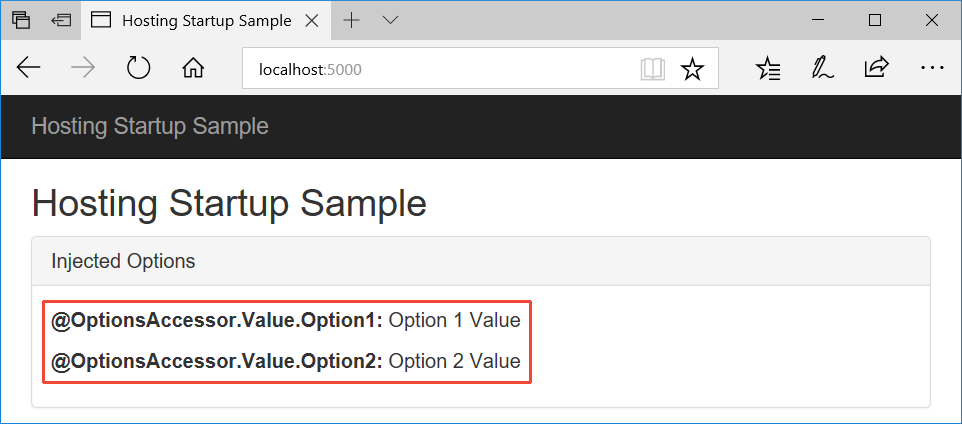
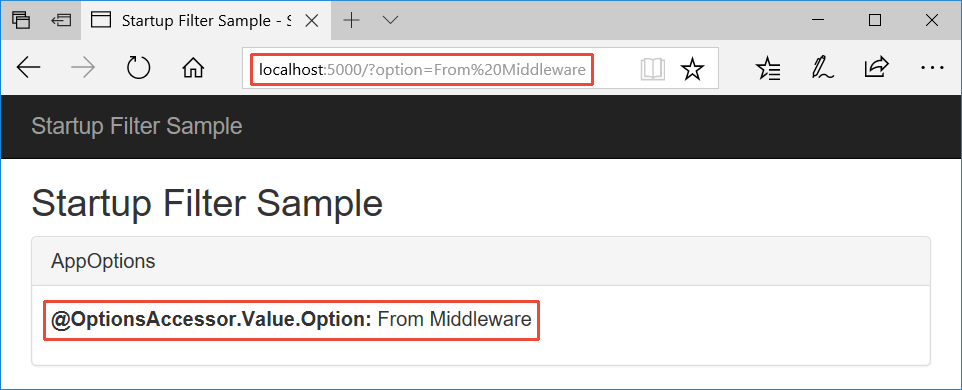
Updates

diff --git a/aspnetcore/fundamentals/startup/sample/RequestSetOptionsMiddleware.cs b/aspnetcore/fundamentals/startup/sample/RequestSetOptionsMiddleware.cs
@@ -3,17 +3,18 @@ using System.Net;
 using System.Threading.Tasks;
 using Microsoft.AspNetCore.Http;
 using Microsoft.Extensions.Options;
+using StartupFilterSample.Models;
 
-namespace HostingStartupSample
+namespace StartupFilterSample
 {
     #region snippet1
     public class RequestSetOptionsMiddleware
     {
         private readonly RequestDelegate _next;
-        private IOptions<InjectedOptions> _injectedOptions;
+        private IOptions<AppOptions> _injectedOptions;
 
         public RequestSetOptionsMiddleware(
-            RequestDelegate next, IOptions<InjectedOptions> injectedOptions)
+            RequestDelegate next, IOptions<AppOptions> injectedOptions)
         {
             _next = next;
             _injectedOptions = injectedOptions;
@@ -23,11 +24,11 @@ namespace HostingStartupSample
         {
             Console.WriteLine("RequestSetOptionsMiddleware.Invoke");
 
-            var option1 = httpContext.Request.Query["option1"];
+            var option = httpContext.Request.Query["option"];
 
-            if (!string.IsNullOrWhiteSpace(option1))
+            if (!string.IsNullOrWhiteSpace(option))
             {
-                _injectedOptions.Value.Option1 = WebUtility.HtmlEncode(option1);
+                _injectedOptions.Value.Option = WebUtility.HtmlEncode(option);
             }
 
             await _next(httpContext);

diff --git a/aspnetcore/fundamentals/startup/sample/Startup.cs b/aspnetcore/fundamentals/startup/sample/Startup.cs
@@ -1,17 +1,14 @@
-using System;
 using Microsoft.AspNetCore.Builder;
 using Microsoft.AspNetCore.Hosting;
 using Microsoft.Extensions.DependencyInjection;
 
-namespace HostingStartupSample
+namespace StartupFilterSample
 {
     public class Startup
     {
         #region snippet1
         public void ConfigureServices(IServiceCollection services)
         {
-            Console.WriteLine("Startup.ConfigureServices");
-
             services.AddTransient<IStartupFilter, RequestSetOptionsStartupFilter>();
             services.AddMvc();
         }
@@ -19,8 +16,6 @@ namespace HostingStartupSample
 
         public void Configure(IApplicationBuilder app, IHostingEnvironment env)
         {
-            Console.WriteLine("Startup.Configure");
-
             if (env.IsDevelopment())
             {
                 app.UseDeveloperExceptionPage();

diff --git a/aspnetcore/fundamentals/startup/sample/Program.cs b/aspnetcore/fundamentals/startup/sample/Program.cs
@@ -1,7 +1,7 @@
 using Microsoft.AspNetCore;
 using Microsoft.AspNetCore.Hosting;
 
-namespace HostingStartupSample
+namespace StartupFilterSample
 {
     public class Program
     {
@@ -12,11 +12,6 @@ namespace HostingStartupSample
 
         public static IWebHost BuildWebHost(string[] args) =>
             WebHost.CreateDefaultBuilder(args)
-                // To scan the assembly for HostingStartupAttributes, the
-                // ApplicationName must be set. This can be done with
-                // UseSetting, Configure, or UseStartup.
-                // .UseSetting(WebHostDefaults.ApplicationKey, "HostingStartupSample")
-                // .Configure(_ => { })
                 .UseStartup<Startup>()
                 .Build();
     }

diff --git a/aspnetcore/fundamentals/startup/sample/RequestSetOptionsStartupFilter.cs b/aspnetcore/fundamentals/startup/sample/RequestSetOptionsStartupFilter.cs
@@ -2,7 +2,7 @@ using System;
 using Microsoft.AspNetCore.Builder;
 using Microsoft.AspNetCore.Hosting;
 
-namespace HostingStartupSample
+namespace StartupFilterSample
 {
     #region snippet1
     public class RequestSetOptionsStartupFilter : IStartupFilter

diff --git a/aspnetcore/fundamentals/startup/sample/Pages/Error.cshtml.cs b/aspnetcore/fundamentals/startup/sample/Pages/Error.cshtml.cs
@@ -1,7 +1,7 @@
 using System.Diagnostics;
 using Microsoft.AspNetCore.Mvc.RazorPages;
 
-namespace HostingStartupSample.Pages
+namespace StartupFilterSample.Pages
 {
     public class ErrorModel : PageModel
     {

diff --git a/aspnetcore/fundamentals/startup/sample/Pages/Index.cshtml.cs b/aspnetcore/fundamentals/startup/sample/Pages/Index.cshtml.cs
@@ -1,6 +1,6 @@
 using Microsoft.AspNetCore.Mvc.RazorPages;
 
-namespace HostingStartupSample.Pages
+namespace StartupFilterSample.Pages
 {
     public class IndexModel : PageModel
     {

diff --git a/aspnetcore/fundamentals/startup/sample/Models/AppOptions.cs b/aspnetcore/fundamentals/startup/sample/Models/AppOptions.cs
@@ -1,0 +1,7 @@
+namespace StartupFilterSample.Models
+{
+    public class AppOptions
+    {
+        public string Option { get; set; } = "Option Default Value";
+    }
+}

diff --git a/aspnetcore/fundamentals/startup.md b/aspnetcore/fundamentals/startup.md
@@ -1,5 +1,5 @@
 ---
-title: Application Startup in ASP.NET Core
+title: Application startup in ASP.NET Core
 author: ardalis
 description: Discover how the Startup class in ASP.NET Core configures services and the application's request pipeline. 
 keywords: ASP.NET Core,Startup,Configure method,ConfigureServices method
@@ -11,7 +11,7 @@ ms.technology: aspnet
 ms.prod: asp.net-core
 uid: fundamentals/startup
 ---
-# Application Startup in ASP.NET Core
+# Application startup in ASP.NET Core
 
 By [Steve Smith](https://ardalis.com), [Tom Dykstra](https://github.com/tdykstra), and [Luke Latham](https://github.com/guardrex)
 
@@ -19,75 +19,57 @@ The `Startup` class configures services and the application's request pipeline.
 
 ## The Startup class
 
-ASP.NET Core apps require a `Startup` class, which is named `Startup` by convention. You specify the startup class name in the `Main` program's [WebHostBuilderExtensions](https://docs.microsoft.com/aspnet/core/api/microsoft.aspnetcore.hosting.webhostbuilderextensions) [`UseStartup<TStartup>`](https://docs.microsoft.com/aspnet/core/api/microsoft.aspnetcore.hosting.webhostbuilderextensions#Microsoft_AspNetCore_Hosting_WebHostBuilderExtensions_UseStartup__1_Microsoft_AspNetCore_Hosting_IWebHostBuilder_) method. See [Hosting](xref:fundamentals/hosting) to learn more about `WebHostBuilder`, which runs before `Startup`.
+ASP.NET Core apps require a `Startup` class, which is named `Startup` by convention. Specify the startup class name in the `Main` program's [WebHostBuilderExtensions](https://docs.microsoft.com/aspnet/core/api/microsoft.aspnetcore.hosting.webhostbuilderextensions) [`UseStartup<TStartup>`](https://docs.microsoft.com/aspnet/core/api/microsoft.aspnetcore.hosting.webhostbuilderextensions#Microsoft_AspNetCore_Hosting_WebHostBuilderExtensions_UseStartup__1_Microsoft_AspNetCore_Hosting_IWebHostBuilder_) method. See [Hosting](xref:fundamentals/hosting) to learn more about `WebHostBuilder`, which runs before `Startup`.
 
-You can define separate `Startup` classes for different environments, and the appropriate one will be selected at runtime. If you specify `startupAssembly` in the [WebHost configuration](https://docs.microsoft.com/aspnet/core/fundamentals/hosting?tabs=aspnetcore2x#configuring-a-host) or options, hosting will load that startup assembly and search for a `Startup` or `Startup[Environment]` type. The class whose name suffix matches the current environment will be prioritized, so if the app is run in the *Development* environment, and includes both a `Startup` and a `StartupDevelopment` class, the `StartupDevelopment` class will be used. See [FindStartupType](https://github.com/aspnet/Hosting/blob/rel/1.1.0/src/Microsoft.AspNetCore.Hosting/Internal/StartupLoader.cs) in `StartupLoader` and [Working with multiple environments](environments.md#startup-conventions).
+The app can define separate `Startup` classes for different environments, and the appropriate startup class is selected at runtime. If `startupAssembly` is specified in the [WebHost configuration](https://docs.microsoft.com/aspnet/core/fundamentals/hosting?tabs=aspnetcore2x#configuring-a-host) or options, hosting loads the specified startup assembly and searches for a `Startup` or `Startup[Environment]` type. The class whose name suffix matches the current environment is prioritized. If the app is run in the *Development* environment and includes both a `Startup` and a `StartupDevelopment` class, the `StartupDevelopment` class is used. See [FindStartupType](https://github.com/aspnet/Hosting/blob/rel/1.1.0/src/Microsoft.AspNetCore.Hosting/Internal/StartupLoader.cs) in `StartupLoader` and [Working with multiple environments](xref:fundamentals/environments#startup-conventions).
 
-Alternatively, you can define a fixed `Startup` class that will be used regardless of the environment by calling `UseStartup<TStartup>`. This is the recommended approach.
+Alternatively, the app can define a fixed `Startup` class that's used regardless of the environment by calling `UseStartup<TStartup>`. This is the recommended approach.
 
 The `Startup` class constructor can accept dependencies that are provided through [dependency injection](xref:fundamentals/dependency-injection). A common approach is to use `IHostingEnvironment` to set up [configuration](xref:fundamentals/configuration) sources.
 
-The `Startup` class must include a `Configure` method and can optionally include a `ConfigureServices` method, both of which are called when the application starts. The class can also include [environment-specific versions of these methods](xref:fundamentals/environments#startup-conventions). `ConfigureServices`, if present, is called before `Configure`.
+The `Startup` class must include a `Configure` method and can optionally include a `ConfigureServices` method. `Configure` and `ConfigureServices` are called when the app starts. The class can also include [environment-specific versions of these methods](xref:fundamentals/environments#startup-conventions). `ConfigureServices`, if present, is called before `Configure`.
 
 Learn about [handling exceptions during application startup](xref:fundamentals/error-handling#startup-exception-handling).
 
 ## The ConfigureServices method
 
-The [ConfigureServices](https://docs.microsoft.com/aspnet/core/api/microsoft.aspnetcore.hosting.startupbase#Microsoft_AspNetCore_Hosting_StartupBase_ConfigureServices_Microsoft_Extensions_DependencyInjection_IServiceCollection_) method is optional; but if used, it's called before the `Configure` method by the web host. The web host may configure some services before ``Startup`` methods are called (see [hosting](xref:fundamentals/hosting)). By convention, [Configuration options](xref:fundamentals/configuration) are set in this method.
+The [ConfigureServices](https://docs.microsoft.com/aspnet/core/api/microsoft.aspnetcore.hosting.startupbase#Microsoft_AspNetCore_Hosting_StartupBase_ConfigureServices_Microsoft_Extensions_DependencyInjection_IServiceCollection_) method is optional. If `ConfigureServices` is used, it's called before the `Configure` method by the web host. The web host may configure some services before `Startup` methods are called (see [hosting](xref:fundamentals/hosting)). By convention, [Configuration options](xref:fundamentals/configuration) are set in this method.
 
-For features that require substantial setup there are `Add[Service]` extension methods on [IServiceCollection](https://docs.microsoft.com/aspnet/core/api/microsoft.extensions.dependencyinjection.iservicecollection). This example from the default web site template configures the app to use services for Entity Framework, Identity, and MVC:
+For features that require substantial setup, there are `Add[Service]` extension methods on [IServiceCollection](https://docs.microsoft.com/aspnet/core/api/microsoft.extensions.dependencyinjection.iservicecollection). The default website template configures the app to use services for Entity Framework, Identity, and MVC:
 
 [!code-csharp[Main](../common/samples/WebApplication1/Startup.cs?highlight=4,7,11&start=40&end=55)]
 
-Adding services to the services container makes them available within your application via [dependency injection](xref:fundamentals/dependency-injection).
+Adding services to the services container makes them available within the app via [dependency injection](xref:fundamentals/dependency-injection).
 
-## Services Available in Startup
+## Services available in Startup
 
-ASP.NET Core dependency injection provides services during an application's startup. You can request these services by including the appropriate interface as a parameter on your `Startup` class's constructor or its `Configure` method. The `ConfigureServices` method only takes an `IServiceCollection` parameter (but any registered service can be retrieved from this collection, so additional parameters are not necessary).
+ASP.NET Core dependency injection provides services during an app's startup. These services can be requested by including the appropriate interface as a parameter on the `Startup` class's constructor or its `Configure` method. The `ConfigureServices` method only takes an `IServiceCollection` parameter (but any registered service can be retrieved from this collection, so additional parameters are not necessary).
 
 Below are some of the services typically requested by `Startup` methods:
 
-* In the constructor:  `IHostingEnvironment`, `ILogger<Startup>`
-* In `ConfigureServices`:  `IServiceCollection`
-* In `Configure`:  `IApplicationBuilder`, `IHostingEnvironment`, `ILoggerFactory`
+* In the constructor: `IHostingEnvironment`, `ILogger<Startup>`
+* In `ConfigureServices`: `IServiceCollection`
+* In `Configure`: `IApplicationBuilder`, `IHostingEnvironment`, `ILoggerFactory`
 
-Any services added by the ``WebHostBuilder`` ``ConfigureServices`` method may be requested by the ``Startup`` class constructor or its ``Configure`` method. Use `WebHostBuilder` to provide any services you need during `Startup` methods.
+Any services added by the `WebHostBuilder` `ConfigureServices` method may be requested by the `Startup` class constructor or its `Configure` method. Use `WebHostBuilder` to provide any services needed by `Startup` methods.
 
 ## The Configure method
 
-The `Configure` method is used to specify how the ASP.NET application will respond to HTTP requests. The request pipeline is configured by adding [middleware](middleware.md) components to an `IApplicationBuilder` instance that is provided by dependency injection.
+The `Configure` method is used to specify how the app responds to HTTP requests. The request pipeline is configured by adding [middleware](xref:fundamentals/middleware) components to an `IApplicationBuilder` instance that is provided by dependency injection.
 
-In the following example from the default web site template, several extension methods are used to configure the pipeline with support for [BrowserLink](http://vswebessentials.com/features/browserlink), error pages, static files, ASP.NET MVC, and Identity.
+The default website template uses several extension methods to configure the pipeline with support for [BrowserLink](http://vswebessentials.com/features/browserlink), error pages, static files, ASP.NET MVC, and Identity:
 
 [!code-csharp[Main](../common/samples/WebApplication1/Startup.cs?highlight=8,9,10,14,17,19,21&start=58&end=84)]
 
-Each `Use` extension method adds a [middleware](xref:fundamentals/middleware) component to the request pipeline. For instance, the `UseMvc` extension method adds the [routing](routing.md) middleware to the request pipeline and configures [MVC](xref:mvc/overview) as the default handler.
+Each `Use` extension method adds a [middleware](xref:fundamentals/middleware) component to the request pipeline. For instance, the `UseMvc` extension method adds the [routing](xref:fundamentals/routing) middleware to the request pipeline and configures [MVC](xref:mvc/overview) as the default handler.
 
 For more information about how to use `IApplicationBuilder`, see [Middleware](xref:fundamentals/middleware).
 
-Additional services, like `IHostingEnvironment` and `ILoggerFactory` may also be specified in the method signature, in which case these services will be [injected](dependency-injection.md) if they are available.
-
-## Hosting startup light up feature
-
-An [IHostingStartup](/dotnet/api/microsoft.aspnetcore.hosting.ihostingstartup) implementation allows adding features to an app at startup outside of the app's `Startup` class. For example, tooling can use an `IHostingStartup` implementation to provide additional configuration providers or services to an app on startup.
-
-The [HostingStartupSample app](https://github.com/aspnet/Docs/tree/master/aspnetcore/fundamentals/startup/sample/) ([how to download](xref:tutorials/index#how-to-download-a-sample)) uses `IHostingStartup` to configure [options](xref:fundamentals/configuration/options) in the app's service container.
-
-The sample app's `StartupInjection` class implements `IHostingStartup`. The [Configure](/dotnet/api/microsoft.aspnetcore.hosting.ihostingstartup.configure) method uses an [IWebHostBuilder](/dotnet/api/microsoft.aspnetcore.hosting.iwebhostbuilder) to add an `InjectedOptions` class to the app's service container with assigned values. The [HostingStartupAttribute](/dotnet/api/microsoft.aspnetcore.hosting.hostingstartupattribute) identifies the `StartupInjection` class as an implementation of `IHostingStartup` for loading and execution when building the [IWebHost](/dotnet/api/microsoft.aspnetcore.hosting.iwebhost):
-
-[!code-csharp[Main](startup/sample/StartupInjection.cs?name=snippet1&highlight=1)]
-
-The sample app's Index page injects the options directly into the page for rendering:
-
-[!code-cshtml[Main](startup/sample/Pages/Index.cshtml?highlight=3-4,19-20,23-24)]
-
-When the app is run, the Index page displays the values:
-
-![Browser window showing the rendered Index page. The values of Option1 and Option2 are displayed as 'Option 1 Value' and 'Option 2 Value'.](startup/_static/index.png)
+Additional services, such as `IHostingEnvironment` and `ILoggerFactory`, may also be specified in the method signature. When specified, these services are [injected](xref:fundamentals/dependency-injection) if they're available.
 
 ## Startup filters
 
-Use [IStartupFilter](/dotnet/api/microsoft.aspnetcore.hosting.istartupfilter) to configure and control the order of middleware at the beginning or end of an app's [Configure](#the-configure-method) middleware pipeline.
+Use [IStartupFilter](/dotnet/api/microsoft.aspnetcore.hosting.istartupfilter) to configure middleware at the beginning or end of an app's [Configure](#the-configure-method) middleware pipeline.
 
 `IStartupFilter` implements a single method, [Configure](/dotnet/api/microsoft.aspnetcore.hosting.istartupfilter.configure), which receives and returns an `Action<IApplicationBuilder>`. An [IApplicationBuilder](/dotnet/api/microsoft.aspnetcore.builder.iapplicationbuilder) defines a class to configure an app's request pipeline. For more information, see [Creating a middleware pipeline with IApplicationBuilder](xref:fundamentals/middleware#creating-a-middleware-pipeline-with-iapplicationbuilder).
 
@@ -105,11 +87,11 @@ The `RequestSetOptionsMiddleware` is configured in the `RequestSetOptionsStartup
 
 The `IStartupFilter` is registered in the service container in `ConfigureServices`:
 
-[!code-csharp[Main](startup/sample/Startup.cs?name=snippet1&highlight=5)]
+[!code-csharp[Main](startup/sample/Startup.cs?name=snippet1&highlight=3)]
 
-When the app is run and a query string parameter for `option1` is provided, the middleware processes the value assignment before the MVC middleware renders the response:
+When the app is run and a query string parameter for `option` is provided, the middleware processes the value assignment before the MVC middleware renders the response:
 
-![Browser window showing the rendered Index page. The value of Option1 is rendered as 'From Middleware' based on requesting the page with the query string parameter and value of option1 set to 'From Middleware'.](startup/_static/index2.png)
+![Browser window showing the rendered Index page. The value of Option is rendered as 'From Middleware' based on requesting the page with the query string parameter and value of option set to 'From Middleware'.](startup/_static/index.png)
 
 Middleware execution order is set by the order of `IStartupFilter` registrations:
 

diff --git a/aspnetcore/fundamentals/startup/sample/README.md b/aspnetcore/fundamentals/startup/sample/README.md
@@ -1,3 +1,3 @@
-# ASP.NET Hosting Startup Sample
+# ASP.NET Core Startup filter sample
 
-This sample illustrates the use of [IHostingStartup](https://docs.microsoft.com/dotnet/api/microsoft.aspnetcore.hosting.ihostingstartup) and [IStartupFilter](https://docs.microsoft.com/en-us/dotnet/api/microsoft.aspnetcore.hosting.istartupfilter). This sample demonstrates the features described in [Application Startup: Hosting startup lightup feature](https://docs.microsoft.com/aspnet/core/fundamentals/startup#hosting-startup-light-up-feature) and [Application Startup: Startup filters](https://docs.microsoft.com/aspnet/core/fundamentals/startup#startup-filters).
+This sample illustrates the use of [IStartupFilter](https://docs.microsoft.com/en-us/dotnet/api/microsoft.aspnetcore.hosting.istartupfilter). This sample demonstrates the features described in [Application Startup: Startup filters](https://docs.microsoft.com/aspnet/core/fundamentals/startup#startup-filters).
